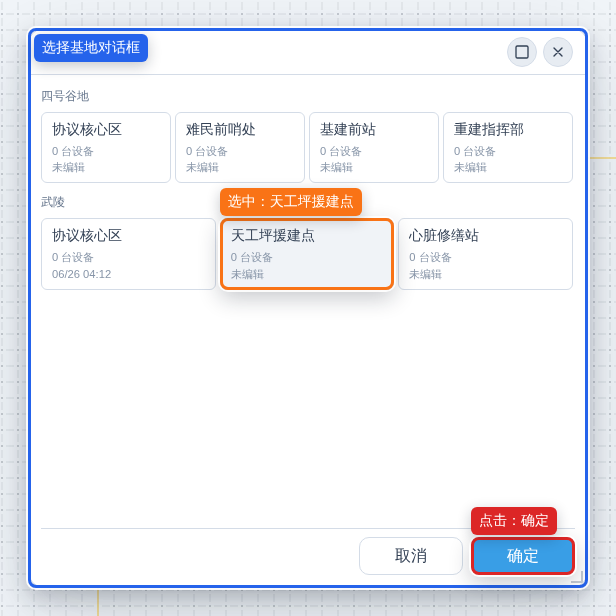
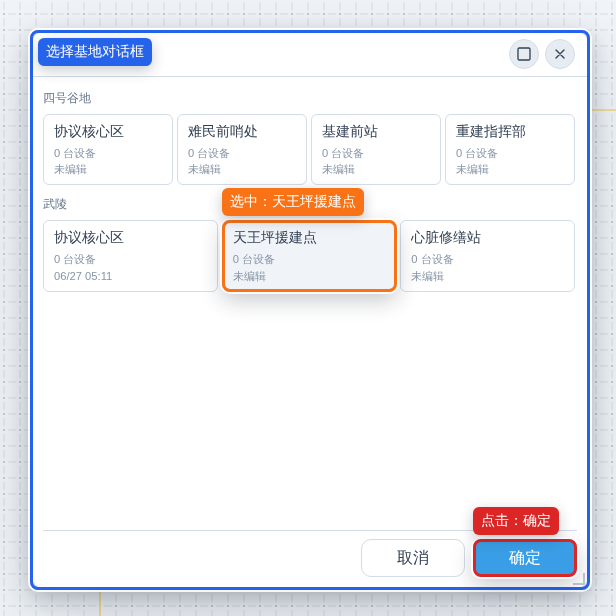
docs: 优化帮助文档标题并完善设备图标配置说明

Changed region(s): [[0.0308, 0.0308, 1.0, 1.0], [0.987, 0.9562, 1.0, 0.987]]

diff --git a/public/help/config-guide/game-show-device-icons.md b/public/help/config-guide/game-show-device-icons.md
@@ -2,4 +2,9 @@
 
 > 在设备上显示图标；开启蓝图样式设备图片时会锁定为开启。
 
-*（此处将展示截图和详细说明）*
+![显示设备图标对比](./game-show-device-icons.png)
+
+开启「显示设备图标」后，设备上会显示一个小型图标，方便快速识别设备类型。左侧为开启状态，右侧为关闭状态。
+
+- **默认值**：关闭
+- **关联设置**：开启「使用蓝图样式设备图片」时将自动锁定为开启

diff --git a/public/help/config-guide/game-arknights-inspector-open-on-second-click.md b/public/help/config-guide/game-arknights-inspector-open-on-second-click.md
@@ -1,4 +1,4 @@
-# 第二次点击打开检视面板
+# 再次点击打开设备属性
 
 > 开启后，对已选中的设备再次点击将打开检视面板。
 

diff --git a/public/help/config-guide/game-arknights-selection-right-dock-sync.md b/public/help/config-guide/game-arknights-selection-right-dock-sync.md
@@ -1,4 +1,4 @@
-# 选择时同步右侧面板
+# 右侧面板与选择联动
 
 > 开启检视面板后，选择设备时自动同步显示在右侧面板。
 

diff --git a/public/help/config-guide/game-arknights-allow-empty-logistics-endpoints.md b/public/help/config-guide/game-arknights-allow-empty-logistics-endpoints.md
@@ -1,4 +1,4 @@
-# 允许空物流端点
+# 物流允许以空地为起点
 
 > 允许物流线的一端不连接任何设备，方便分批建设。
 

diff --git a/public/help/config-guide/game-use-inspector-panel.md b/public/help/config-guide/game-use-inspector-panel.md
@@ -1,4 +1,4 @@
-# 使用检视面板
+# 使用右侧面板显示设备属性
 
 > 开启后，选中设备时会在右侧弹出检视面板。
 

diff --git a/public/help/config-guide/game-arknights-auto-create-splitters-and-convergers.md b/public/help/config-guide/game-arknights-auto-create-splitters-and-convergers.md
@@ -1,4 +1,4 @@
-# 自动创建分流/合流器
+# 自动创建分/汇流
 
 > 在物流线 T 型交叉处自动插入分流器或合流器。
 

diff --git a/public/help/config-guide/debug-show-gesture-diagnostics-window.md b/public/help/config-guide/debug-show-gesture-diagnostics-window.md
@@ -1,4 +1,4 @@
-# 手势诊断窗口
+# 显示手势测试窗口
 
 > 显示触控手势的诊断信息窗口，用于开发调试。
 

diff --git a/public/help/config-guide/game-always-show-grid-lines.md b/public/help/config-guide/game-always-show-grid-lines.md
@@ -1,4 +1,4 @@
-# 始终显示网格线
+# 总是显示网格线
 
 > 非简化图标模式下，始终显示画布网格线。
 

diff --git a/public/help/config-guide/game-arknights-immediate-move.md b/public/help/config-guide/game-arknights-immediate-move.md
@@ -1,4 +1,4 @@
-# 立即拖动
+# 立即移动
 
 > 左键拖拽已选中设备时直接移动，无需先进入移动模式。
 

diff --git a/public/help/config-guide/game-show-hotkeys.md b/public/help/config-guide/game-show-hotkeys.md
@@ -1,4 +1,4 @@
-# 显示快捷键提示
+# 显示快捷键
 
 > 在界面上显示可用的快捷键提示。
 

diff --git a/public/help/config-guide/debug-show-fps.md b/public/help/config-guide/debug-show-fps.md
@@ -1,4 +1,4 @@
-# 显示帧率
+# 显示 FPS/TPS
 
 > 在界面上叠加显示当前渲染帧率 (FPS)。
 

diff --git a/public/help/config-guide/game-arknights-copy-while-moving.md b/public/help/config-guide/game-arknights-copy-while-moving.md
@@ -1,4 +1,4 @@
-# 拖动时复制
+# 移动时复制
 
 > 拖拽设备时同时按住可复制一份。
 
